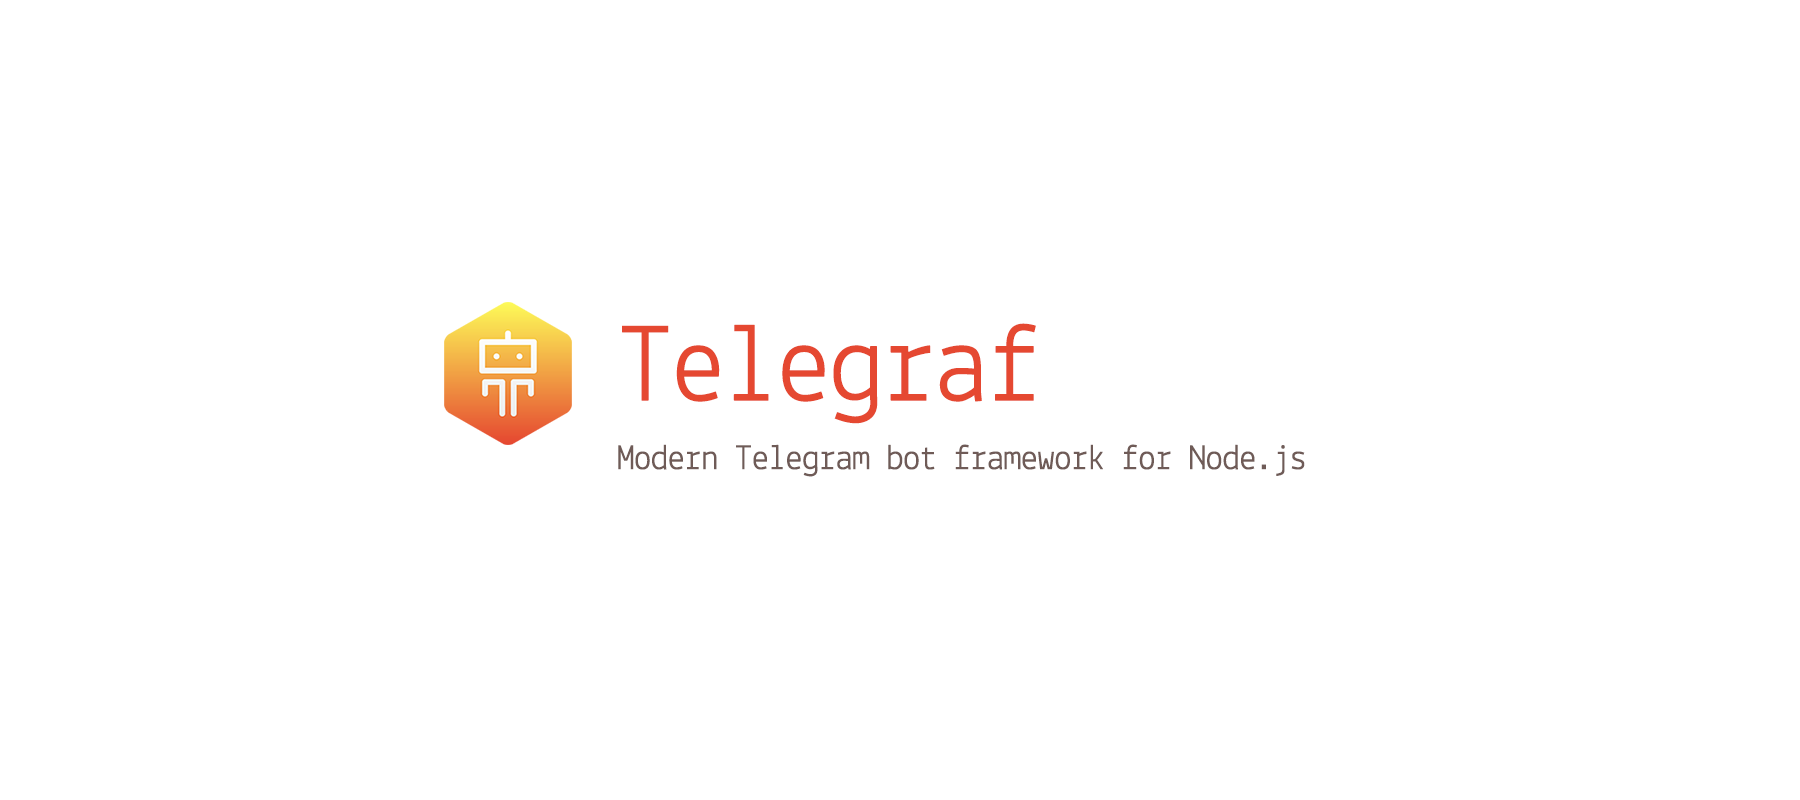
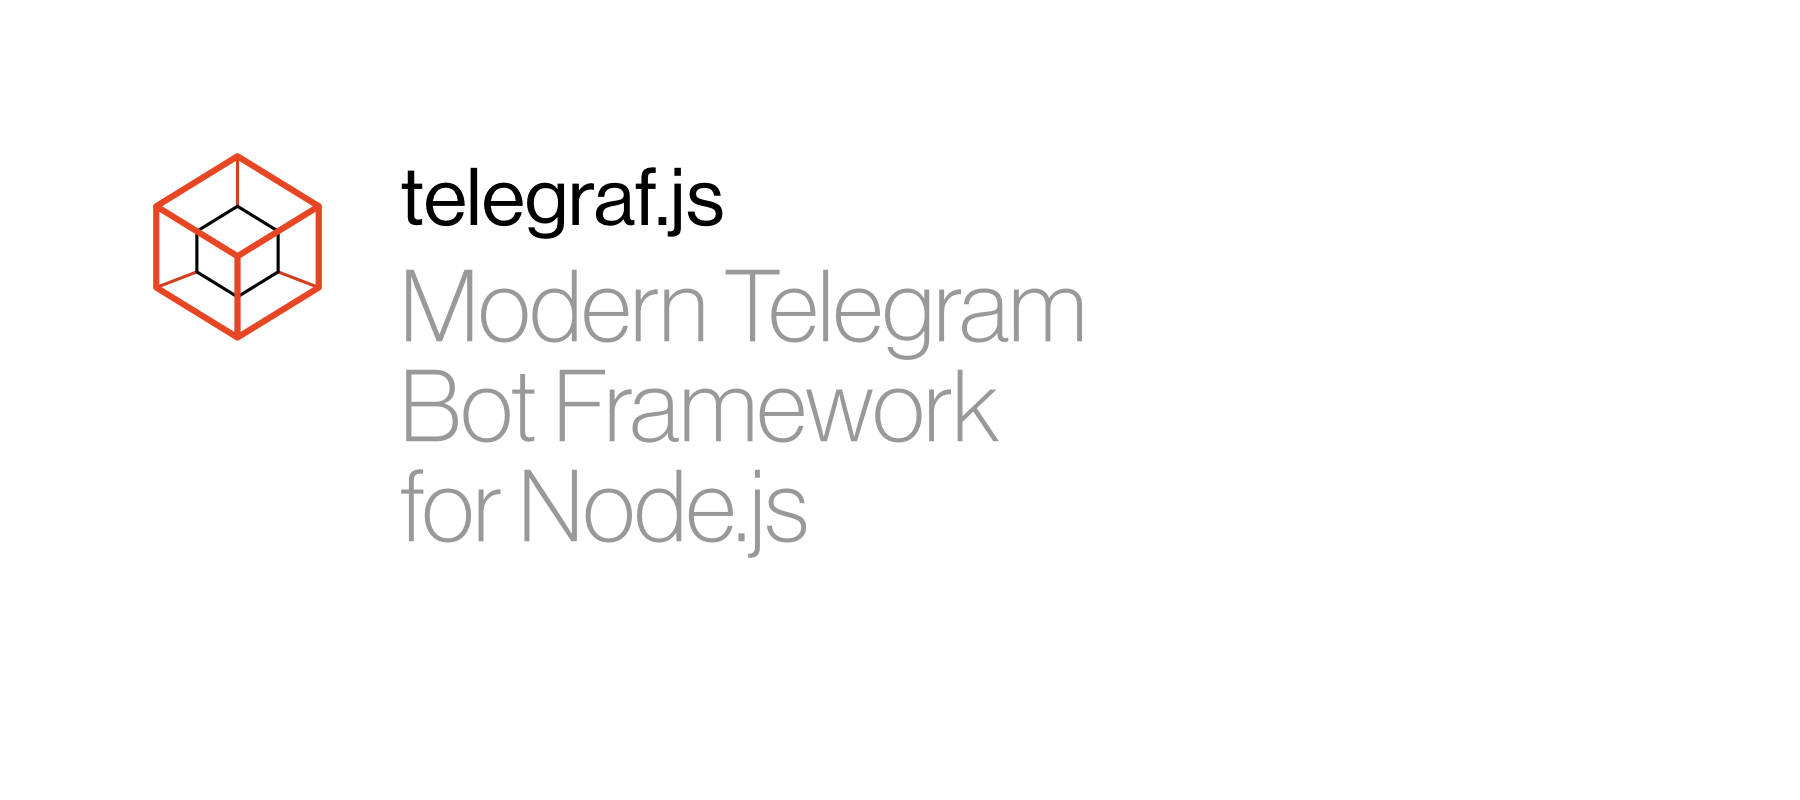
update docs & rebranding

Changed region(s): [[0.2178, 0.3125, 0.7156, 0.6875], [0.0622, 0.1875, 0.1867, 0.4375], [0.2178, 0.2188, 0.4044, 0.3125]]

diff --git a/index.html b/index.html
@@ -1,7 +1,7 @@
 <!DOCTYPE html>
 <html>
 <head>
-  <title>Telegraf :: Modern Telegram bot framework for Node.js</title>
+  <title>Telegraf: Modern Telegram Bot Framework for Node.js</title>
   <meta charset="utf-8">
   <meta http-equiv="X-UA-Compatible" content="IE=edge" />
   <meta name="viewport" content="width=device-width, initial-scale=1, maximum-scale=1, user-scalable=0" />
@@ -11,34 +11,34 @@
   <style>
     .markdown-body a,
     .markdown-body .markdown-heading:focus {
-      color:#FF3D00;
+      color:#E74625;
     }
     .token.string {
       color: #183691;
     }
     .nav-list .nav-item >a.router-link-active, .nav-list .nav-item >div.router-link-active {
-      color:#FF3D00;
-      border-bottom-color:#FF3D00;
+      color:#E74625;
+      border-bottom-color:#E74625;
     }
     .nav-list .nav-item-dropdown .dropdown-list .dropdown-item .router-link:hover, .nav-list .nav-item-dropdown .dropdown-list .dropdown-item .router-link-active {
-      color:#FF3D00;
+      color:#E74625;
     }
     .sidebar-headings .sidebar-heading .sidebar-heading-anchor.active, .sidebar-headings .sidebar-heading .sidebar-heading-anchor:hover {
-      color:#FF3D00;
+      color:#E74625;
     }
     /* nprogress */
     #nprogress .bar {
-      background:#FF3D00;
+      background:#E74625;
     }
     #nprogress .spinner-icon {
-      border-top-color:#FF3D00;
-      border-left-color:#FF3D00;
+      border-top-color:#E74625;
+      border-left-color:#E74625;
     }
     .search-form .svg-icon.do-search:hover {
-      color:#FF3D00;
+      color:#E74625;
     }
     a:hover, .link:hover {
-      color:#FF3D00;
+      color:#E74625;
     }
   </style>
 </head>

diff --git a/README.md b/README.md
@@ -1,17 +1,10 @@
-## telegraf.js
+![Telegraf](header.png)
 
-Modern Telegram bot framework.
+## Introduction
 
 Bots are special [Telegram](https://telegram.org) accounts designed to handle messages automatically. 
 Users can interact with bots by sending them command messages in private or group chats. 
 These accounts serve as an interface for code running somewhere on your server.
-
-![Telegraf](header.png)
-[![Bot API Version](https://img.shields.io/badge/Bot%20API-v4.4-f36caf.svg?style=flat-square)](https://core.telegram.org/bots/api)
-[![NPM Version](https://img.shields.io/npm/v/telegraf.svg?style=flat-square)](https://www.npmjs.com/package/telegraf)
-[![node](https://img.shields.io/node/v/telegraf.svg?style=flat-square)](https://www.npmjs.com/package/telegraf)
-[![Build Status](https://img.shields.io/travis/telegraf/telegraf.svg?branch=master&style=flat-square)](https://travis-ci.org/telegraf/telegraf)
-[![js-standard-style](https://img.shields.io/badge/code%20style-standard-brightgreen.svg?style=flat-square)](http://standardjs.com/)
 
 #### Features
 
@@ -49,7 +42,6 @@ bot.on('sticker', (ctx) => ctx.reply('👍'))
 bot.hears('hi', (ctx) => ctx.reply('Hey there'))
 bot.launch()
 ```
-
 
 ```js
 const Telegraf = require('telegraf')
@@ -100,7 +92,7 @@ For additional bot examples see [`examples`](https://github.com/telegraf/telegra
 * [TereGramBot](https://github.com/juandjara/TereGramBot)
 * Send PR to add link to your bot
 
-## Introduction
+## Getting started
 
 #### Telegram token
 
@@ -130,29 +122,15 @@ It returns a Promise with a then function for running code after completion.
 ```js
 const bot = new Telegraf(process.env.BOT_TOKEN)
 
-bot.use((ctx, next) => {
-  const start = new Date()
-  return next(ctx).then(() => {
-    const ms = new Date() - start
-    console.log('Response time %sms', ms)
-  })
-})
-
-bot.on('text', (ctx) => ctx.reply('Hello World'))
-bot.launch()
-```
-
-##### Cascading with async functions
-
-You might need Babel or `node >=v.7.x` with harmony flags or `@std/esm` package for running following example.
-
-```js
 bot.use(async (ctx, next) => {
   const start = new Date()
   await next()
   const ms = new Date() - start
-  console.log('Response time %sms', ms)
+  console.log('Response time: %sms', ms)
 })
+
+bot.on('text', (ctx) => ctx.reply('Hello World'))
+bot.launch()
 ```
 
 ##### Known middleware
@@ -171,7 +149,7 @@ bot.use(async (ctx, next) => {
 
 #### Error handling
 
-By default Telegraf will print all errors to stderr and rethrow error.
+By default Telegraf will print all errors to `stderr` and rethrow error.
 
 To perform custom error-handling logic use following snippet:
 
@@ -342,7 +320,7 @@ bot.command('quit', (ctx) => {
   // Explicit usage
   ctx.telegram.leaveChat(ctx.message.chat.id)
 
-  // Using shortcut
+  // Using context shortcut
   ctx.leaveChat()
 })
 
@@ -350,7 +328,7 @@ bot.on('text', (ctx) => {
   // Explicit usage
   ctx.telegram.sendMessage(ctx.message.chat.id, `Hello ${ctx.state.role}`)
 
-  // Using shortcut
+  // Using context shortcut
   ctx.reply(`Hello ${ctx.state.role}`)
 })
 
@@ -358,7 +336,7 @@ bot.on('callback_query', (ctx) => {
   // Explicit usage
   ctx.telegram.answerCbQuery(ctx.callbackQuery.id)
 
-  // Using shortcut
+  // Using context shortcut
   ctx.answerCbQuery()
 })
 
@@ -367,7 +345,7 @@ bot.on('inline_query', (ctx) => {
   // Explicit usage
   ctx.telegram.answerInlineQuery(ctx.inlineQuery.id, result)
 
-  // Using shortcut
+  // Using context shortcut
   ctx.answerInlineQuery(result)
 })
 
@@ -410,7 +388,7 @@ bot.on('text', (ctx) => {
 bot.launch()
 ```
 
-**Note: For persistent sessions you might use any of [`telegraf-session-*`](https://www.npmjs.com/search?q=telegraf-session) middleware.**
+**Note: For persistent sessions you can use any of [`telegraf-session-*`](https://www.npmjs.com/search?q=telegraf-session) middleware.**
 
 **Tip: To use same session in private chat with bot and in inline mode, use following session key resolver:**
 
@@ -471,6 +449,7 @@ Available update sub-types:
 - `successful_payment`
 - `connected_website`
 - `passport_data`
+- `poll`
 
 ```js
 // Handle message update
@@ -990,6 +969,17 @@ Generates optional middleware.
 | Param | Type | Description |
 | --- | --- | --- |
 | test | `truthy/function` | Value or predicate `(ctx) => bool` |
+| middleware | `function` | middleware |
+
+##### Telegraf.acl
+
+Generates middleware for provided users only.
+
+`Telegraf.acl(userId, ...middleware) => function`
+
+| Param | Type | Description |
+| --- | --- | --- |
+| userId | `string/string[]` | User id |
 | middleware | `function` | middleware |
 
 ##### Telegraf.drop
